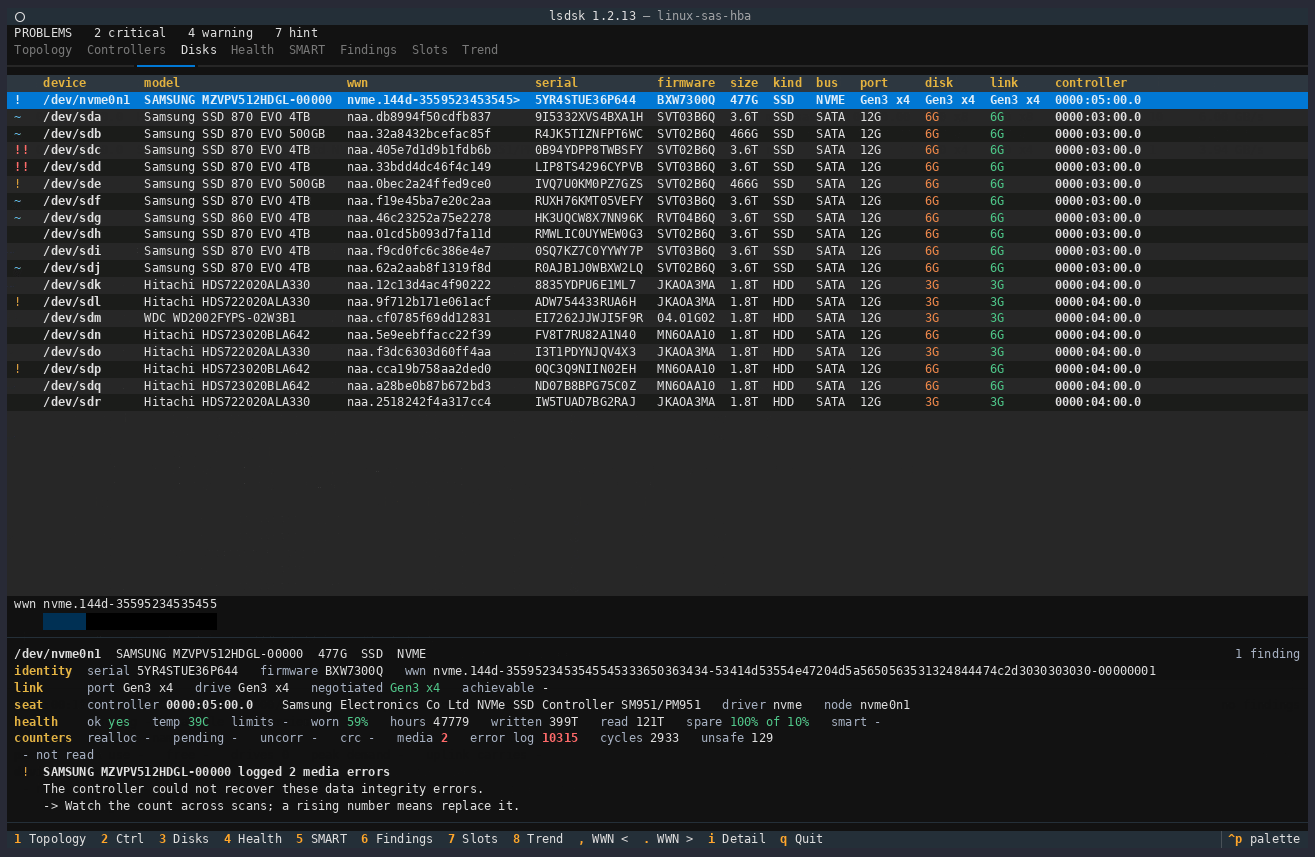
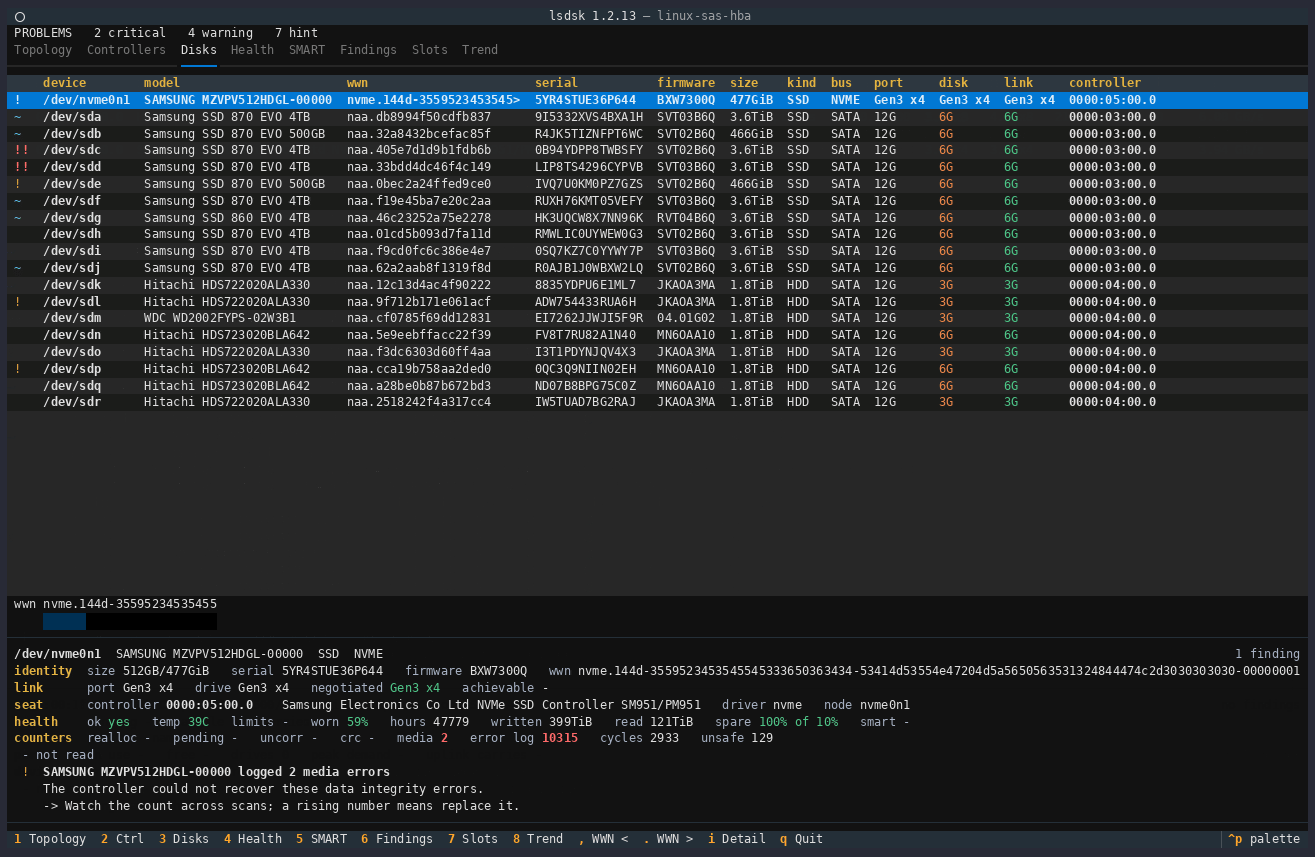
feat(render): a capacity names the scale it is written on, and the panel labels it
A drive is SOLD in powers of ten and REPORTS in powers of two, and the two
differ by about 7 percent per step. Written with the scale unnamed, the figure
is read as whichever the reader expects: a drive sold as 500 GB rendered `466G`
beside its own model name reads as a different drive from the one on the
invoice. So format_size now names its scale - `466GiB`, not `466G` - everywhere
a column draws one, and the columns, the card and the JSON spell one figure one
way.

Where there is room for both, both are written. format_size_both gives
`500GB/466GiB`: the decimal figure first, because that is the one the reader
arrived with and what is printed on the drive's own label, and the binary one
after it, because that is what every other tool on the machine will say. Below
a kilobyte the two agree and only one is written, since `512B/512B` says
nothing twice.

The panel now LABELS the capacity. It used to sit unlabelled in the heading,
between the model and the media kind, so a reader going down the labels found
serial, firmware and wwn, concluded the panel did not carry the size at all,
and said so. It is an identity pair now, written on both scales, and the
heading no longer repeats it.

The pictures are regenerated from the same run, so they show the figures this
change produces rather than the ones before it.

diff --git a/src/lsdsk/adapters/render/theme.py b/src/lsdsk/adapters/render/theme.py
@@ -201,12 +201,37 @@ STYLE_OPPORTUNITY = STYLE_OPPORTUNITY_COLOUR
 TEMPERATURE_WARM = 50
 TEMPERATURE_HOT = 60
 
-_SIZE_UNITS = ("B", "K", "M", "G", "T", "P")
-_SIZE_STEP = 1024.0
+# A capacity has two honest answers and they differ by 7 percent per step: a
+# drive is SOLD in powers of ten and REPORTS in powers of two. Written with the
+# scale unnamed, the figure is read as whichever the reader expects, so a drive
+# sold as 500 GB rendered `466G` reads as a different drive from the one on the
+# invoice. Both unit lists therefore name their scale, and `format_size_both`
+# writes the pair where there is room for it.
+_BINARY_UNITS = ("B", "KiB", "MiB", "GiB", "TiB", "PiB")
+_DECIMAL_UNITS = ("B", "KB", "MB", "GB", "TB", "PB")
+_BINARY_STEP = 1024.0
+_DECIMAL_STEP = 1000.0
+
+
+def _scaled(size_bytes: int, step: float, units: tuple[str, ...]) -> str:
+    """One capacity on one scale, to the unit that keeps it under three digits."""
+    value = float(size_bytes)
+    for unit in units:
+        if value < step or unit == units[-1]:
+            if unit == units[0]:
+                return f"{int(value)}{unit}"
+            return f"{value:.1f}{unit}" if value < 10 else f"{value:.0f}{unit}"  # noqa: PLR2004 - one decimal below ten
+        value /= step
+    return "-"
 
 
 def format_size(size_bytes: int | None) -> str:
-    """Render a capacity the way a disk listing should.
+    """Render a capacity for a column, on the scale the drive reports in.
+
+    The unit NAMES its scale (``GiB``, not ``G``), because the same drive is
+    two different numbers on the two scales and a column is where a reader
+    compares one drive against another. The pair form is
+    :func:`format_size_both`, for the places with room for it.
 
     Args:
         size_bytes: Capacity in bytes, or ``None``.
@@ -216,22 +241,47 @@ def format_size(size_bytes: int | None) -> str:
 
     Example:
         >>> format_size(4_000_787_030_016)
-        '3.6T'
+        '3.6TiB'
         >>> format_size(500_107_862_016)
-        '466G'
+        '466GiB'
+        >>> format_size(512)
+        '512B'
         >>> format_size(None)
+        '-'
+    """
+    return "-" if size_bytes is None else _scaled(size_bytes, _BINARY_STEP, _BINARY_UNITS)
+
+
+def format_size_both(size_bytes: int | None) -> str:
+    """Render a capacity on both scales, the way the box and the drive say it.
+
+    The decimal figure first, because that is the one a reader arrived with -
+    it is what the drive was sold as and what is printed on its label - and the
+    binary one after it, because that is what every tool on the machine will
+    report. Below a kilobyte the two agree and only one is written, since
+    ``512B/512B`` says nothing twice.
+
+    Args:
+        size_bytes: Capacity in bytes, or ``None``.
+
+    Returns:
+        Both figures, or the single one where they agree.
+
+    Example:
+        >>> format_size_both(500_107_862_016)
+        '500GB/466GiB'
+        >>> format_size_both(4_000_787_030_016)
+        '4.0TB/3.6TiB'
+        >>> format_size_both(512)
+        '512B'
+        >>> format_size_both(None)
         '-'
     """
     if size_bytes is None:
         return "-"
-    value = float(size_bytes)
-    for unit in _SIZE_UNITS:
-        if value < _SIZE_STEP or unit == _SIZE_UNITS[-1]:
-            if unit == "B":
-                return f"{int(value)}{unit}"
-            return f"{value:.1f}{unit}" if value < 10 else f"{value:.0f}{unit}"  # noqa: PLR2004 - one decimal below ten
-        value /= _SIZE_STEP
-    return "-"
+    binary = _scaled(size_bytes, _BINARY_STEP, _BINARY_UNITS)
+    decimal = _scaled(size_bytes, _DECIMAL_STEP, _DECIMAL_UNITS)
+    return binary if binary == decimal else f"{decimal}/{binary}"
 
 
 def format_speed(gbps: float | None) -> str:
@@ -616,6 +666,7 @@ __all__ = [
     "Palette",
     "disk_style",
     "format_size",
+    "format_size_both",
     "format_speed",
     "format_temperature",
     "format_wear",

diff --git a/tests/test_diagnostics.py b/tests/test_diagnostics.py
@@ -837,17 +837,47 @@ def test_counting_by_severity_reports_every_level() -> None:
     [
         (None, "-"),
         (512, "512B"),
-        (4096, "4.0K"),
-        (500_107_862_016, "466G"),
-        (4_000_787_030_016, "3.6T"),
-        (20_000_000_000_000_000, "18P"),
+        (4096, "4.0KiB"),
+        (500_107_862_016, "466GiB"),
+        (4_000_787_030_016, "3.6TiB"),
+        (20_000_000_000_000_000, "18PiB"),
     ],
 )
 def test_size_formatting(size_bytes: int | None, expected: str) -> None:
-    """Verify capacities render the way a disk listing should read."""
+    """Verify a capacity names the scale it is written on.
+
+    The unit is ``GiB`` and not ``G`` because the two scales differ by 7 percent
+    per step: a drive sold as 500 GB reports 466 GiB, and written as ``466G``
+    beside its own model name it reads as a different drive from the one on the
+    invoice.
+    """
     from lsdsk.adapters.render.theme import format_size
 
     assert format_size(size_bytes) == expected
+
+
+@pytest.mark.os_agnostic
+@pytest.mark.parametrize(
+    ("size_bytes", "expected"),
+    [
+        (None, "-"),
+        # Below a kilobyte the two scales agree, and one figure is written once
+        # rather than twice: "512B/512B" says nothing the first half did not.
+        (512, "512B"),
+        (500_107_862_016, "500GB/466GiB"),
+        (4_000_787_030_016, "4.0TB/3.6TiB"),
+    ],
+)
+def test_size_in_both_scales(size_bytes: int | None, expected: str) -> None:
+    """The decimal figure the drive was sold as, then the binary one it reports.
+
+    Decimal first because that is what the reader arrived with: it is printed on
+    the drive's own label. Binary second because that is what every other tool
+    on the machine will say.
+    """
+    from lsdsk.adapters.render.theme import format_size_both
+
+    assert format_size_both(size_bytes) == expected
 
 
 @pytest.mark.os_agnostic

diff --git a/tests/test_render_detail.py b/tests/test_render_detail.py
@@ -228,3 +228,33 @@ def test_an_empty_socket_shows_no_link_running_in_it_just_as_the_table_does() ->
                 assert running == "-", f"{host} {slot.address}: an empty socket reads as running {running}"
     # Both arms have to occur, or one of the two branches is never tested.
     assert empty_seen and filled_seen, f"the captures cover only one case: {empty_seen} empty, {filled_seen} filled"
+
+
+@pytest.mark.os_agnostic
+def test_the_panel_names_the_capacity_and_writes_it_on_both_scales() -> None:
+    """A reader looking for the size must find it beside a label saying so.
+
+    It used to sit unlabelled in the heading, between the model and the media
+    kind, so someone reading down the labels found serial, firmware and wwn and
+    concluded the panel did not carry the capacity at all.
+
+    Both scales, because the panel has room where a column does not: the same
+    drive is 500GB on its own label and 466GiB to every tool on the machine, and
+    one figure alone is read as whichever the reader expected.
+    """
+    checked = 0
+    for host in CAPTURES:
+        machine = _machine(host)
+        for disk in machine.disks:
+            record = detail.disk_detail(disk, machine)
+            identity = next(group for group in record.groups if group.label == detail.IDENTITY)
+            named = dict(identity.values)
+            assert "size" in named, f"{host} {disk.path}: the panel's identity group names no size"
+            if disk.size_bytes is None:
+                continue
+            drawn = named["size"][0]
+            assert theme.format_size(disk.size_bytes) in drawn, f"{host} {disk.path}: {drawn} omits the binary figure"
+            assert "B/" in drawn or drawn.endswith("B"), f"{host} {disk.path}: {drawn} names no scale"
+            checked += 1
+
+    assert checked, "the control: no capture reported a capacity, so this asserted nothing"

diff --git a/src/lsdsk/adapters/render/detail.py b/src/lsdsk/adapters/render/detail.py
@@ -142,12 +142,20 @@ def disk_detail(disk: Disk, inventory: Inventory, history: History | None = None
     heading = (
         (disk.path, theme.STYLE_IDENTIFIER),
         row["model"],
-        row["size"],
         row["kind"],
         row["bus"],
     )
+    # The capacity is a LABELLED pair rather than a word in the heading. In the
+    # heading it sat between the model and the media kind with nothing saying
+    # what it was, so a reader looking for the size read the labels below and
+    # did not find one. It is written on both scales here because there is room:
+    # the column above has to choose, this does not.
+    size = (theme.format_size_both(disk.size_bytes), "" if disk.size_bytes else theme.STYLE_UNKNOWN)
     groups = (
-        DetailGroup(IDENTITY, (("serial", row["serial"]), ("firmware", row["firmware"]), ("wwn", row["wwn"]))),
+        DetailGroup(
+            IDENTITY,
+            (("size", size), ("serial", row["serial"]), ("firmware", row["firmware"]), ("wwn", row["wwn"])),
+        ),
         DetailGroup(LINK, _disk_link_values(disk, row)),
         DetailGroup(SEAT, _seat_values(disk, inventory)),
         DetailGroup(HEALTH, _health_values(disk.health)),

diff --git a/README.md b/README.md
@@ -76,14 +76,14 @@ linux-sas-hba   2 root complexes (0000:00, 0000:ff)   root ports to PCIe 3.0 x8 
    │     address       capable  running  name
    ├─┬── 0000:00:01.0  3.0 x4   3.0 x4   Intel Corporation ... Root Port 1a  (root port)
    │ └── 0000:05:00.0  3.0 x4   3.0 x4   Samsung Electronics Co Ltd NVMe SSD Controller SM951
-   │     device        model                       size  kind  bus   port     disk     temp  worn
-!  │     /dev/nvme0n1  SAMSUNG MZVPV512HDGL-00000  477G  SSD   NVME  Gen3 x4  Gen3 x4   39C   59%
+   │     device        model                         size  kind  bus   port     disk     temp  worn
+!  │     /dev/nvme0n1  SAMSUNG MZVPV512HDGL-00000  477GiB  SSD   NVME  Gen3 x4  Gen3 x4   39C   59%
    │     address       capable  running  name
    ├─┬── 0000:00:03.0  3.0 x8   3.0 x8   Intel Corporation ... Root Port 3a  (root port)
 ~  │ └── 0000:03:00.0  4.0 x8   3.0 x8   Broadcom / LSI Fusion-MPT 12GSAS/PCIe Secure SAS38xx
-   │     device        model                       size  kind  bus   port     disk     temp  worn
-~  │     /dev/sda      Samsung SSD 870 EVO 4TB     3.6T  SSD   SATA  12G      6G        36C    1%
-~  │     /dev/sdb      Samsung SSD 870 EVO 500GB   466G  SSD   SATA  12G      6G        30C    2%
+   │     device        model                         size  kind  bus   port     disk     temp  worn
+~  │     /dev/sda      Samsung SSD 870 EVO 4TB     3.6TiB  SSD   SATA  12G      6G        36C    1%
+~  │     /dev/sdb      Samsung SSD 870 EVO 500GB   466GiB  SSD   SATA  12G      6G        30C    2%
 
 Controllers on linux-sas-hba        ...
 Disks on linux-sas-hba              ...
